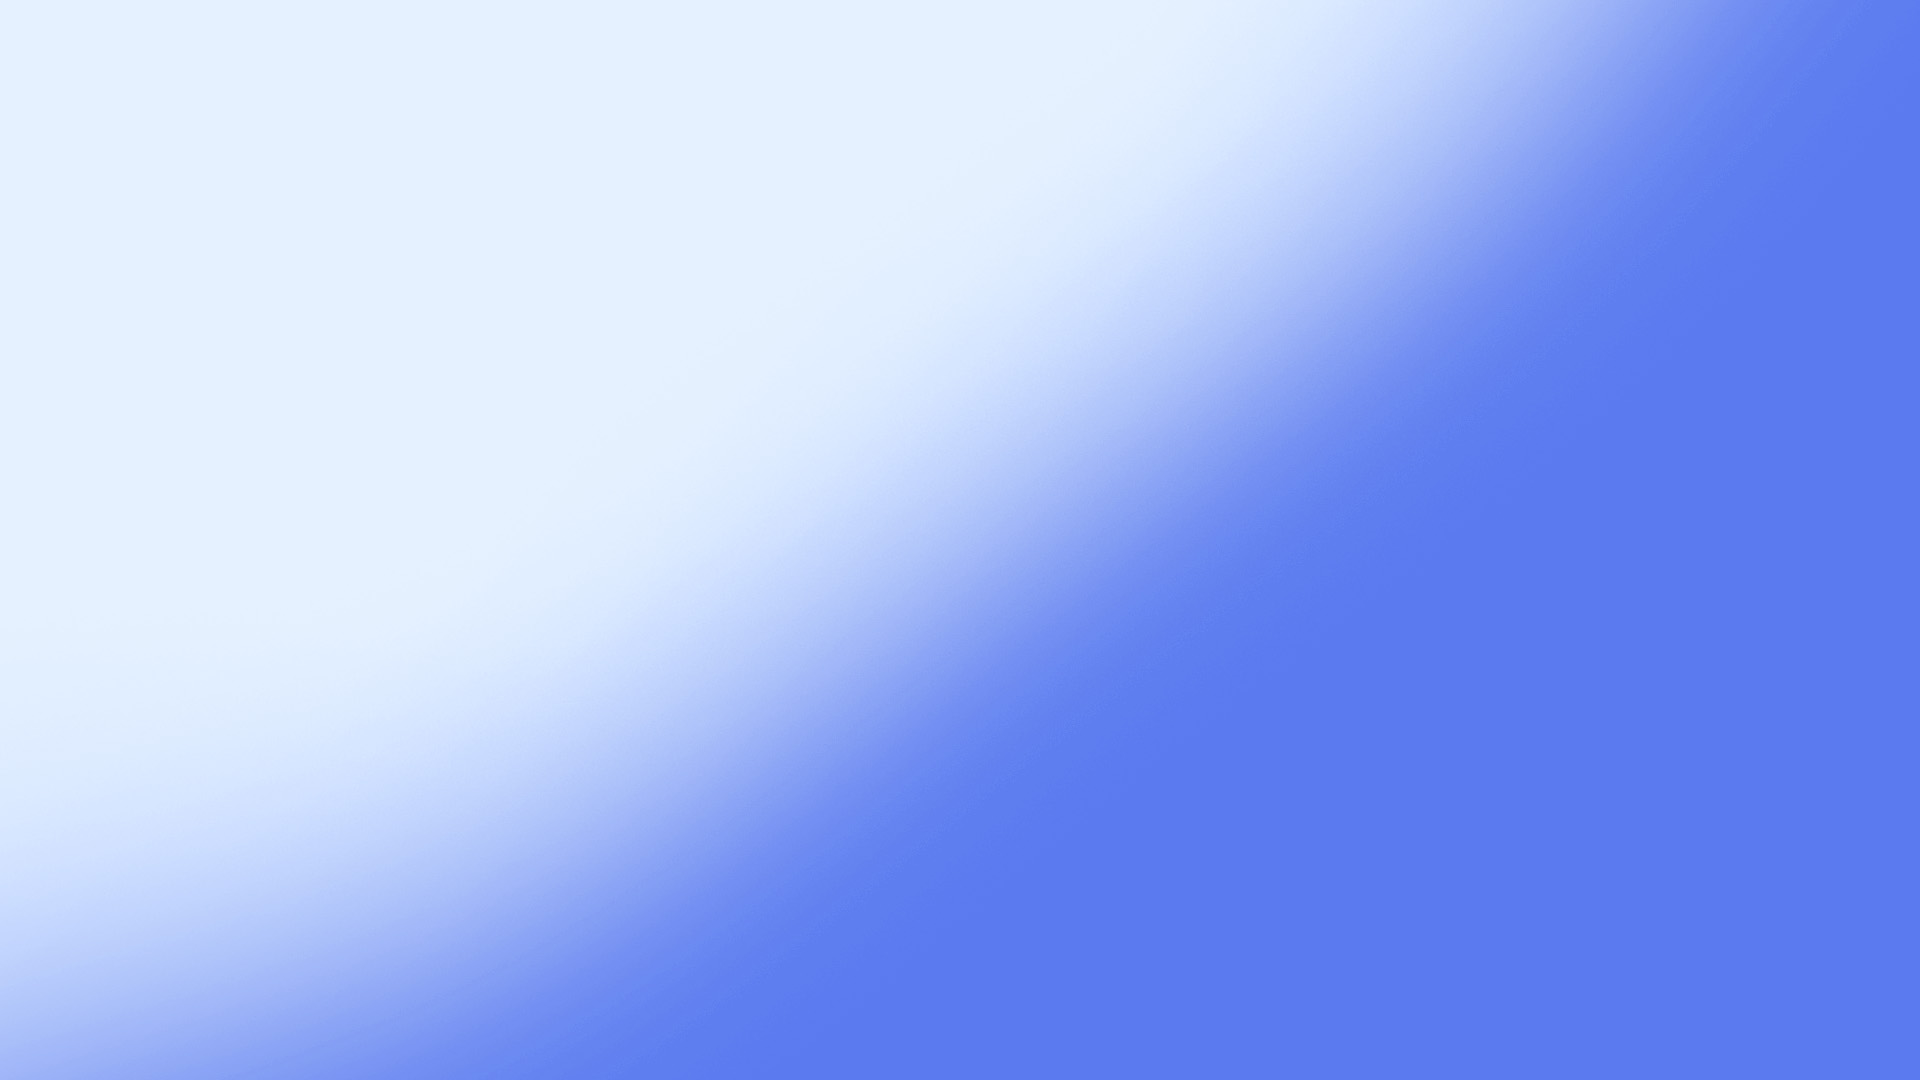
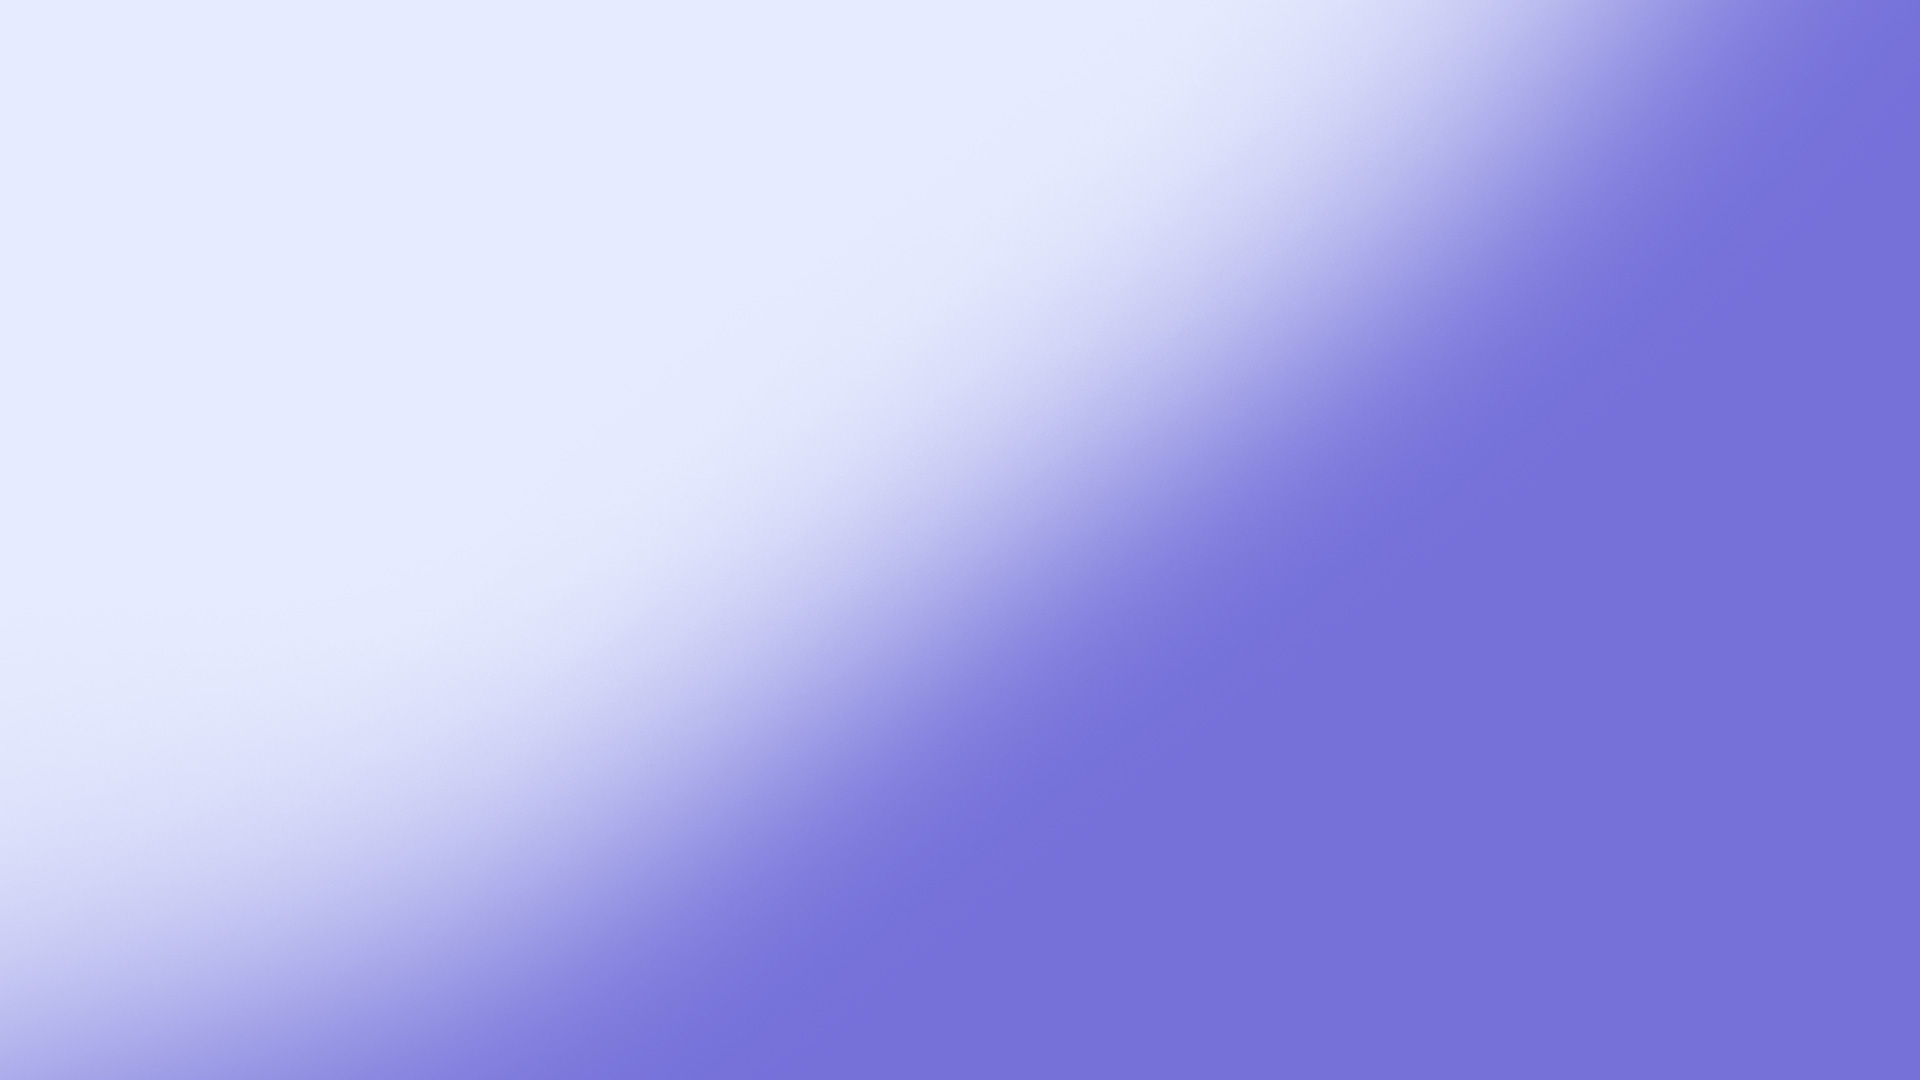
전체적인 css 수정

diff --git a/TeamProject/src/main/webapp/resources/css/post.css b/TeamProject/src/main/webapp/resources/css/post.css
@@ -29,6 +29,14 @@ a {
     max-width: 900px;
     margin: auto;
 }
+.back{
+	position: absolute;
+    top: 6px;
+    left: 12px;
+    font-size: 30px;
+    cursor: pointer;
+    color: #969696;
+}
 .post-box, .comment-box {
 	position: relative;
     background-color: white;
@@ -36,6 +44,7 @@ a {
     border-radius: 10px;
     margin: 0 auto;
     margin-top: 50px;
+    box-shadow: 0 4px 6px rgba(0, 0, 0, 0.1);
 }
 .post-top{
 	display: flex;
@@ -49,7 +58,7 @@ a {
 	margin-top: 5px;
 }
 .post-type{
-	background-color: #355beb;
+	background-color: #5550d0;
 	color : white;
 	width: 100px;
 	height: 30px;
@@ -73,7 +82,7 @@ a {
 }
 .modify input[type="button"]{
 	border-radius: 50px;
-	background-color: #355beb;
+	background-color: #5550d0;
 	color: #fff;
 	border: none;
 	width: 18%;
@@ -85,35 +94,43 @@ a {
 }
 #new-comment{
 	width:79%;
-	height: 50px;
+	height: 60px;
 	border-radius: 5px;
+	border: 1px solid #969696;
+    padding-left: 10px;
+    font-size: 1rem;
 }
 #add-comment{
 	width: 20%;
-	height: 50px;
+	height: 60px;
 	vertical-align: bottom;
-	background-color: #355beb;
+	background-color: #5550d0;
 	color: white;
 	border: none;
 	border-radius: 5px;
 	cursor: pointer;
+	font-size: 1rem;
 }
 .comments-top{
 	display : flex;
 	justify-content: space-between;
     align-items: center;
 }
+.comments-top p{
+	font-size: 0.9rem;
+	color: #969696;
+}
 .comments{
-	border: 1px solid #000;
+	border: 1px solid #969696;
 	margin-top: 10px;
 	padding: 7px;
 	border-radius: 5px;
 }
 .comments hr{
-	border: 1px dashed #000;
+	border: 1px dashed #969696;
 }
 .comments-top input[type="button"]{
-	background-color: #969696;
+	background-color: #5550d0;
 	color: white;
 	border: none;
 	border-radius : 15px;
@@ -126,7 +143,7 @@ a {
 .button{
 	width: 130px;
 	height: 50px;
-	background-color: #355beb;
+	background-color: #5550d0;
 	color: white;
 	border: none;
 	border-radius: 30px;
@@ -135,4 +152,10 @@ a {
 	display: block;
 	margin: 0 auto;
 	margin-top: 20px;
+}
+.attachment-item {
+    background-color: #f2f5ff;
+    padding: 20px;
+    border-radius: 10px;
+    margin-top: 5px;
 }

diff --git a/TeamProject/src/main/webapp/resources/css/gonggo.css b/TeamProject/src/main/webapp/resources/css/gonggo.css
@@ -75,7 +75,7 @@ input {
     padding: 10px 20px;
     border: none;
     cursor: pointer;
-    background-color: #355beb;
+    background-color: #5550d0;
     color: #fff;
     font-size: 18px;
     margin-left: 3%;
@@ -90,7 +90,7 @@ input[type="checkbox"] + label{
 	display: inline-block;
 	width: 100px;
 	height: 30px;
-	border: 1px solid #355beb;
+	border: 1px solid #5550d0;
 	border-radius: 30px;
 	position: relative;
     font-size: 14px;
@@ -102,13 +102,13 @@ input[type="checkbox"]:checked + label::after{
     font-size: 14px;
     width: 100px;
     height: 30px;
-    border: 1px solid #355beb;
+    border: 1px solid #5550d0;
 	border-radius: 30px;
     text-align: center;
     position: absolute;
     left: -2px;
     top: -2px;
-    background-color: #355beb;
+    background-color: #5550d0;
     color: #fff;
     line-height: 30px;
 }
@@ -175,10 +175,12 @@ input[id="cb4"]:checked + label::after{
 	width: 25px;
 	height: 25px;
 	line-height: 25px;
-	color: white;
 	text-decoration: none;
-	background-color: #abbffa;
+	background-color: #e6ebfe;
+	font-weight: 300;
+	color: #000;
 }
 a.active {
-	background-color: #355beb;
+	background-color: #5550d0;
+	color: #fff;
 }

diff --git a/TeamProject/src/main/webapp/resources/css/board.css b/TeamProject/src/main/webapp/resources/css/board.css
@@ -89,7 +89,7 @@ input {
     padding: 10px 20px;
     border: none;
     cursor: pointer;
-    background-color: #355beb;
+    background-color: #5550d0;
     color: #fff;
     font-size: 18px;
     margin-left: 3%;
@@ -100,9 +100,10 @@ input {
 	width: 100%;
 	border-radius: 5px;
 	padding: 20px;
+    box-shadow: 0 4px 6px rgba(0, 0, 0, 0.1);
 }
 .content-box {
-	background-color: #e9eef6;
+	background-color: #f3f6ff;
     width: 100%;
     margin: 0 auto;
     margin-bottom: 5px;
@@ -110,14 +111,14 @@ input {
     padding: 0 25px;
     cursor: pointer;
 }
+.content-box:hover {
+	background-color: #e6ebfe;
+}
 .content {
 	display: flex;
 	justify-content: space-between;
     align-items: center;
     height: 90px;
-}
-.content-box:hover {
-	background-color: #dde4ef;
 }
 .b-type {
 	color: #777c80;
@@ -147,12 +148,14 @@ input {
 	width: 25px;
 	height: 25px;
 	line-height: 25px;
-	color: white;
+	color: #000;
 	text-decoration: none;
-	background-color: #abbffa;
+	background-color: #e6ebfe;
+	font-weight: 300;
 }
 a.active {
-	background-color: #355beb;
+	background-color: #5550d0;
+	color: #fff;
 }
 .type-content{
 	min-width: 120px;

diff --git a/TeamProject/src/main/webapp/resources/css/signup.css b/TeamProject/src/main/webapp/resources/css/signup.css
@@ -93,8 +93,8 @@ label {
   	display: none;
 }
 input[type="radio"]:checked + span {
-	background-color: #355beb;
-	border: 1px solid #355beb;
+	background-color: #5550d0;
+	border: 1px solid #5550d0;
 	color: #fff;
 }
 
@@ -123,7 +123,7 @@ input[type="radio"]:checked + span {
     color: #969696;
 }
 .btn {
-    background-color: #355beb;
+    background-color: #5550d0;
     color: white;
     padding: 10px;
     border: none;

diff --git a/TeamProject/src/main/webapp/resources/css/write.css b/TeamProject/src/main/webapp/resources/css/write.css
@@ -23,6 +23,7 @@ form{
     border: 1px solid #ccc;
     border-radius: 10px;
     padding: 25px;
+    box-shadow: 0 4px 6px rgba(0, 0, 0, 0.1);
 }
 .title input {
     padding: 10px;
@@ -56,7 +57,7 @@ textarea{
 	height: 55px;
 	cursor: pointer;
 	text-align: center;
-	background-color: #355beb;
+	background-color: #5550d0;
     font-size: 16px;
     margin-top: 30px;
 }

diff --git a/TeamProject/src/main/webapp/resources/css/mypage.css b/TeamProject/src/main/webapp/resources/css/mypage.css
@@ -29,8 +29,7 @@ a {
     background-color: white;
     padding: 50px 30px;
     border-radius: 10px;
-    margin: 0 auto;
-    margin-top: 50px;
+    margin: 70px auto;
 }
 .aa {
 	display: flex;
@@ -73,6 +72,7 @@ button {
     padding: 10px;
     text-align: left;
     width: 100%;
+    line-break: anywhere;
 }
 
 input[type="password"] {

diff --git a/TeamProject/src/main/webapp/resources/css/login.css b/TeamProject/src/main/webapp/resources/css/login.css
@@ -72,7 +72,7 @@ input[type="text"], input[type="password"] {
     color: #969696;
 }
 .btn {
-    background-color: #355beb;
+    background-color: #5550d0;
     color: white;
     padding: 10px;
     border: none;

diff --git a/TeamProject/src/main/webapp/resources/css/gonggoPost.css b/TeamProject/src/main/webapp/resources/css/gonggoPost.css
@@ -75,8 +75,9 @@ hr {
 	height: 50px;
 	cursor: pointer;
 	text-align: center;
-	background-color: #355beb;
+	background-color: #5550d0;
     font-size: 16px;
 }
+
 
 

diff --git a/TeamProject/src/main/webapp/resources/css/main.css b/TeamProject/src/main/webapp/resources/css/main.css
@@ -63,7 +63,7 @@ a {
     right: -100px;
 }
 button {
-	background-color: #355beb;
+	background-color: #5550d0;
 	color: #fff;
 	width: 280px;
 	height: 80px;
